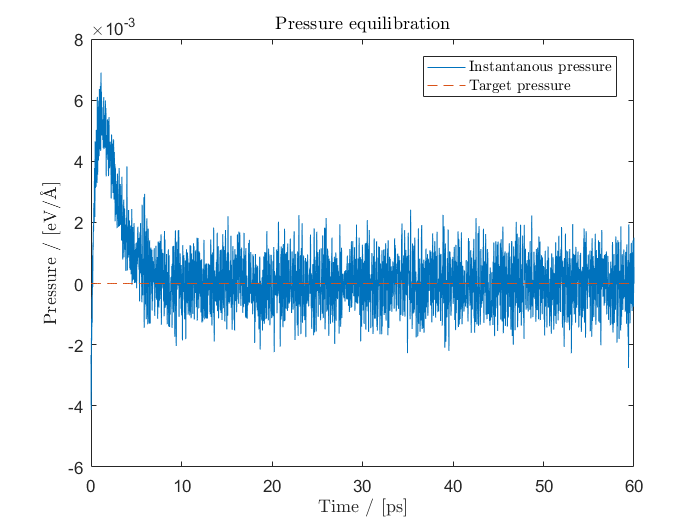
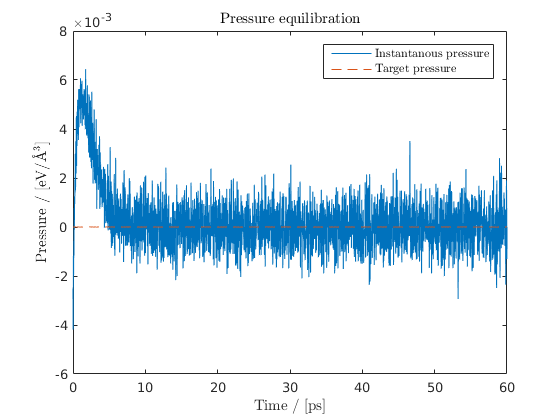
Updated report and pressure plot for task3. Also fixed a bug in Task3.

diff --git a/report/report.tex b/report/report.tex
@@ -12,26 +12,26 @@
 
 \section*{Introduction}
 
-Molecular dynamics is the movement of atoms and molecules. Such a system can be simulated with certain properties. The interests of doing these kinds of simulation is studying e.g. the trajectories of the atoms given specific surrounding parameters such as temperature, pressure, crystal formation etc. For this homeproblem we study the dynamics of aluminium atoms in a FCC crystal lattice.
+Molecular dynamics is the movement of atoms and molecules. Such a system can be simulated with certain properties. The interests of doing these kinds of simulations is studying e.g. the trajectories of the atoms given specific surrounding parameters such as temperature, pressure, crystal formation etc. For this homeproblem we study the dynamics of aluminium atoms in a FCC crystal lattice.
 
-For the homeproblems we simulate the dynamics of the aluminium atoms by approximating their interactions by their pair-wise interactions. At the start of each simulation the atoms are placed on a FCC lattice with lattice parameter $\unit[4.046]{\AA}$ \cite{al_wiki}. These atoms are initially displaced about $\unit[5]{\%}$ of the lattice spacing and their velocities are set to zero.
+For the homeproblem we simulate the dynamics of the aluminium atoms by approximating their interactions by their pair-wise interactions. At the start of each simulation the atoms are placed on a FCC lattice with lattice parameter $\unit[4.046]{\AA}$ \cite{al_wiki}. These atoms are initially displaced about $\unit[5]{\%}$ of the lattice spacing and their velocities are set to zero.
 
 \section*{Problem 1}
 
 \begin{figure}[H]
     \centering
     \includegraphics[width=\textwidth]{graphics/task1/energy.png}
-    \caption{For different time-steps the energy evolves differently over time, in the figure we there are four simulations with different time-steps. The time-steps increases with $\unit[0.01]{ps}$ for each simulation and the total energy starts to increase for time-steps of $\unit[0.03]{ps}$.}
+    \caption{For different time-steps the energy evolves differently over time, in the figure there are four simulations with different time-steps. The time-steps increases with $\unit[0.01]{ps}$ for each simulation and the total energy starts to increase for time-steps of $\unit[0.03]{ps}$.}
     \label{fig:timestep}
 \end{figure}
 
-For the simulations we updated the positions and velocities of the particles by applying the velocity verlet algorithm.
+For the simulations we update the positions and velocities of the particles by applying the velocity verlet algorithm, which is described below.
 
 \begin{itemize}
-\item $v \leftarrow v +\frac{1}{2}a\Delta t, \;$ update velocity from current acceleration.
+\item $v \leftarrow v +\frac{1}{2}a\Delta t, \;$ update velocity from current acceleration with half a timestep.
 \item $q \leftarrow q +v\Delta t, \;$ update displacement from current velocity.
 \item $a \leftarrow a, \;$ update acceleration from the applied forces.
-\item $v \leftarrow v +\frac{1}{2}a\Delta t, \;$ update velocity from new acceleration.
+\item $v \leftarrow v +\frac{1}{2}a\Delta t, \;$ update velocity from new acceleration with another half-step.
 \end{itemize}
 
 For this algorithm to be stable, we need to choose a time-step that conserves the total energy. With the algorithm implemented we can simulate the system and study the time evolution of the total energies. In Fig. \ref{fig:timestep} we can see the implications of different time-steps. We can see that the energy is unstable for $\Delta t = \unit[0.03]{ps}$ and stable for the previous one at $\Delta t = \unit[0.025]{ps}$. To have some safety margin we will, for the rest of the report, use a time-step of $\Delta t = \unit[0.005]{ps}$.
@@ -53,43 +53,36 @@ For this algorithm to be stable, we need to choose a time-step that conserves th
         \centering
         \includegraphics[width=\textwidth]{graphics/task3/traj.png}
     \end{subfigure}
-    \caption{\textit{Upper left:} The time evolution of the pressure during equilibration. The target pressure was set to $\unit[1]{atm} = \unit[6.3249e^{-7}]{eV/\AA}$. \textit{Upper right:} The time evolution of the temperature during equilibration. The target temperature was set to 500$^\circ$ C and we can see that it quickly reaches the target temperature. \textit{Lower:} 3D plot of trajectories for three of the aluminium particles during 100 ps after the equilibration process. As we can see they stay close to the initial position, which indicates that the system is in its solid state. Note that the scales are not the same on all axes.}
+    \caption{\textit{Upper left:} The time evolution of the pressure during equilibration. The target pressure was set to $\unit[1]{atm} = \unit[6.3249e^{-7}]{eV/\AA^3}$. \textit{Upper right:} The time evolution of the temperature during equilibration. The target temperature was set to 500$^\circ$ C and we can see that it quickly reaches the target temperature. \textit{Lower:} 3D plot of trajectories for three of the aluminium particles during 100 ps after the equilibration process. As we can see they stay close to the initial position, which indicates that the system is in its solid state. Note that the scales are not the same on all axes.}
     \label{fig:equilibrium500}
 \end{figure}
 
-The third problem was about implementing routines for equilibrating the molecular dynamics system to a specified temperature, $T_{eq} = 500^\circ$ C, at pressure $P_{eq} = 1$ atm. The equilibration was implemented using scaling of the velocities and the total volume, and consquently the positions of the molecules as well. The equations used can be found in appendix D in the molecular dynamics lecture notes \cite{lecnotes}. The goal was to study the temperature and pressure after the equilibration process through constant energy and volume simulation. We also plot the trajectories of a few particles to show that the system is still in a solid state (Fig. \ref{fig:equilibrium500}, lower subfigure).
+The third problem was about implementing routines for equilibrating the molecular dynamics system to a specified temperature, $T_{eq} = 500^\circ$ C, at pressure $P_{eq} = 1$ atm. The equilibration was implemented using scaling of the velocities and the total volume, and consquently the positions of the molecules as well. The goal was to study the temperature and pressure after the equilibration process through constant energy and volume simulation. We also plot the trajectories of a few particles to show that the system is still in a solid state (Fig. \ref{fig:equilibrium500}, lower subfigure).
 
-The three main parameters for the equilibration are the timestep (used in the velocity Verlet algorithm) $\Delta t$ and the temperature and pressure relaxation times, $\tau_T$ and $\tau_P$ respectively. The timestep used was 5 fs and the temperature relaxation time was chosen to be $\tau_T = 100 \Delta t$, i.e. choosing the $\Delta t/\tau_T$ quotient in the $\alpha_T$ calculation to be equal 0.01.
+The three main parameters for the equilibration are the timestep $\Delta t$ used in the velocity Verlet algorithm and the temperature and pressure relaxation times, $\tau_T$ and $\tau_P$ respectively. The timestep used was 5 fs, as described in the first problem, and the temperature relaxation time was chosen to be $\tau_T = 100 \Delta t$, i.e. choosing the $\Delta t/\tau_T$ quotient in the $\alpha_T$ calculation to be equal to 0.01.
 
 When equilibrating the pressure the isothermic compressibility, $\kappa_T$, is used when computing $\alpha_P(t)$. The isothermic compressibility for aluminium is 0.01385 GPa$^{-1}$ \cite{knowledgedoor}, but $\tau_P$ is instead chosen in such a way that $\kappa_T$ is cancelled out. For these simulation we chose $\tau_P = 100\Delta t \kappa_T$.
 
-% parameters: tau, delta t, kappa,
+In order to set the system to a certain temperature, a technique involving scaling all the velocities during a equilibrating state. Since the temperature depends on the kinetic energies which in turn depends on the velocities, the  temperature can thusly be changed by changing velocities. In figure \ref{fig:equilibrium500} we can see the temperature after setting the temperature to $\unit[500]{C^\circ}$. The average temperature and pressure post-equilibration was found to be $T_{avg}=\unit[772.07]{K}$ and $P_{avg}=1.40\cdot 10^{-4}$.
 
-In order to set the system to a certain temperature, a technique involving scaling all the velocities during a equilibrating state. Since the temperature depends on the kinetic energies which in turn depends on the velocities, the  temperature can thusly be changed by changing velocities. In figure \ref{fig:equilibrium500} we can see the temperature after setting the temperature to $\unit[500]{C^\circ}$. The average temperature and pressure was found to be, $T_{avg}=\unit[772.07]{K}$ and $P_{avg}=1.40\cdot 10^{-4}$.
-
-The scaling of the velocities are calculated by,
-
+The previously mentioned scaling of the velocities is given by
 \begin{equation}
-\mathbf{v_i}^{new} = \alpha_T^{1/2}\mathbf{v_i}^{old}
+\mathbf{v_i}^{new} = \alpha_T^{1/2}\mathbf{v_i}^{old},
 \end{equation}
-
-where,
-
+where
 \begin{equation}
 \alpha_T(t) = 1+\frac{\Delta t}{\tau_T}\frac{T_{eq}-T(t)}{T(t)},
 \end{equation}
+$T_{eq}$ being the target temperature and $T(t)$ the instantaneous temperature.
 
-with $T_{eq}$ as the target temperature and $T(t)$ the instantaneous temperature.
-
-Similarily, but with small changes we scale the positions through,
-
+Similarily, but with small changes we scale the positions using
 \begin{equation}
 \alpha_P(t)=1-\kappa_T\frac{\Delta t}{\tau_P}\left[P_{eq}-P(t)\right],
 \end{equation}
-
-where $P_{eq}$ is the target pressure and $P(t)$ is the instantanoeus pressure.\\
+where $P_{eq}$ is the target pressure and $P(t)$ is the instantanoeus pressure.
 
 The calculations of the instantaneous temperature and pressure, as well as the averages, can be found in 5.2 and 5.3 in \cite{lecnotes}.
+
 
 \section*{Problem 4}
 
@@ -235,10 +228,6 @@ Direct evaluation of this integral, for the same $q$ values as the simulation, u
     \label{fig:StaticStructure}
 \end{figure}
 
-
-
-
-\section*{Concluding discussion}
 
 
 \vfill

diff --git a/code/Task3/MD_main.c b/code/Task3/MD_main.c
@@ -7,7 +7,7 @@
 #include "initfcc.h"
 #include "alpotential.h"
 #define nbr_of_particles 256
-#define nbr_of_timesteps 1e4
+#define nbr_of_timesteps 10000
 #define nbr_of_timesteps_eq 6000
 #define nbr_of_dimensions 3
 
@@ -264,8 +264,8 @@ int main()
     }
     fclose(file);
 
-    printf("Final Temperature: %e\n", temperature_avg[nbr_of_timesteps]);
-    printf("Final Pressure: %e\n", pressure_avg[nbr_of_timesteps]);
+    printf("Final Temperature: %e\n", temperature_avg[nbr_of_timesteps-1]);
+    printf("Final Pressure: %e\n", pressure_avg[nbr_of_timesteps-1]);
 
     free(energy_kin);		energy_kin = NULL;
     free(energy_pot); 		energy_pot = NULL;

diff --git a/code/Task3/plot_pressure.m b/code/Task3/plot_pressure.m
@@ -17,6 +17,6 @@ legend({'Instantanous pressure','Target pressure'},'interpreter','latex','locati
 % 
 % labels
 xlabel('Time / [ps]','interpreter','latex')
-ylabel('Pressure / [eV/\AA]','interpreter','latex')
+ylabel('Pressure / [eV/\AA$^3$]','interpreter','latex')
 % title
 title('Pressure equilibration','interpreter','latex')
